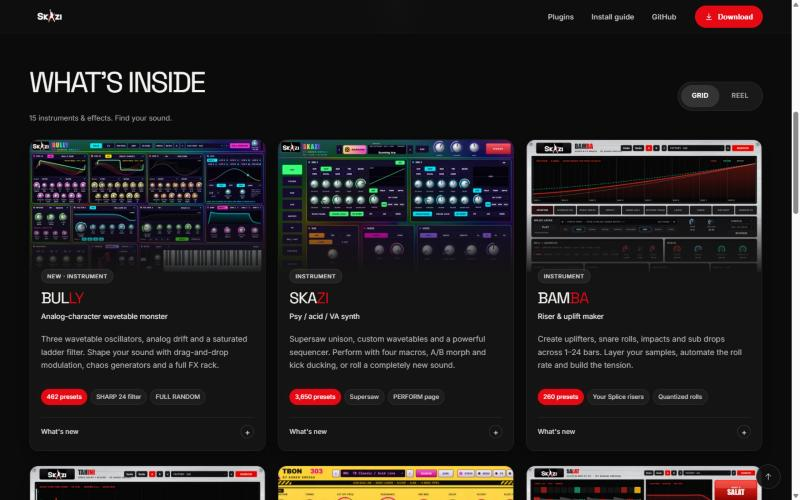
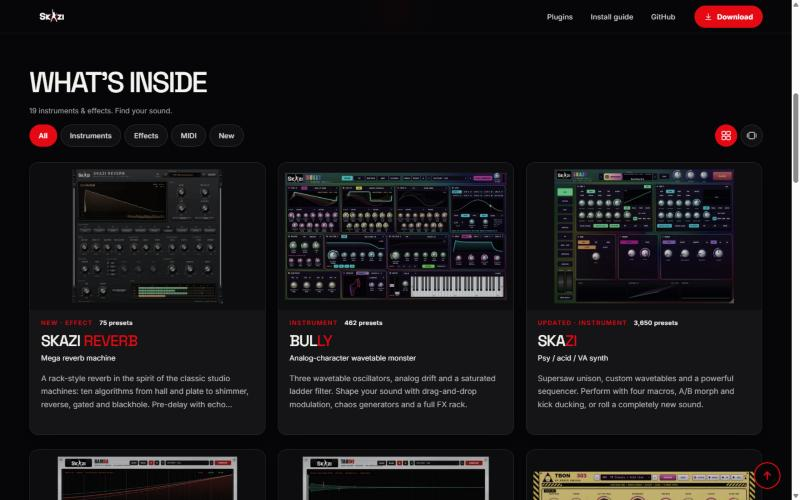
Review: fresh screenshots and a plain-language guide page for Asher

diff --git a/docs/review/for-asher.html b/docs/review/for-asher.html
@@ -1,0 +1,81 @@
+<!doctype html>
+<html lang="he" dir="rtl">
+<head>
+<meta charset="utf-8">
+<meta name="viewport" content="width=device-width, initial-scale=1">
+<title>האתר החדש של SKAZI · מה לעשות עם ה-PR</title>
+<meta name="robots" content="noindex">
+<style>
+  :root{color-scheme:dark;--bg:#060608;--surface:#151517;--line:rgba(255,255,255,.12);--text:#f4f4f0;--dim:#a4a4a4;--red:#e50914}
+  *{box-sizing:border-box}
+  body{margin:0;background:var(--bg);color:var(--text);font:16px/1.75 -apple-system,"Segoe UI",Roboto,Arial,sans-serif}
+  main{width:min(820px,100% - 40px);margin:0 auto;padding:48px 0 80px}
+  h1{font-size:32px;line-height:1.2;margin:0 0 8px}
+  h2{font-size:21px;margin:44px 0 12px;padding-top:24px;border-top:1px solid var(--line)}
+  p{margin:0 0 14px}
+  .lead{color:var(--dim);font-size:17px}
+  .cta{display:inline-flex;align-items:center;gap:10px;margin:18px 0 6px;padding:14px 24px;border-radius:999px;background:var(--red);color:#fff;font-weight:700;text-decoration:none;font-size:17px}
+  .cta:hover{background:#c90812}
+  .note{color:var(--dim);font-size:14px}
+  figure{margin:18px 0 26px}
+  figure img{display:block;width:100%;height:auto;border:1px solid var(--line);border-radius:14px;background:#000}
+  figcaption{margin-top:8px;color:var(--dim);font-size:14px}
+  .two{display:grid;grid-template-columns:1fr 1fr;gap:18px}
+  @media(max-width:640px){.two{grid-template-columns:1fr}}
+  ol{padding-right:22px}
+  ol li{margin-bottom:12px}
+  li b{color:#fff}
+  .box{margin:14px 0;padding:16px 18px;border:1px solid var(--line);border-radius:14px;background:var(--surface)}
+  a{color:#fff}
+  .muted{color:var(--dim)}
+  ul{padding-right:22px}
+  ul li{margin-bottom:6px}
+</style>
+</head>
+<body>
+<main>
+  <h1>אשר, זה האתר החדש של SKAZI</h1>
+  <p class="lead">בניתי לך מחדש את עמוד ההורדה. הכל ב-PR אחד, אתה רק צריך להסתכל ולהחליט.</p>
+
+  <a class="cta" href="https://sergey-bar.github.io/skazi-bundle/">לפתוח את האתר החדש ולהתרשם ›</a>
+  <p class="note">זו גרסת תצוגה מקדימה, זהה לחלוטין למה שייכנס לאתר שלך. כדאי לפתוח גם מהטלפון.</p>
+
+  <h2>מה השתנה</h2>
+  <ul>
+    <li><b>כפתור הורדה אחד.</b> לוחצים, בוחרים Windows או Mac, וההורדה מתחילה. אחרי לחיצה על Windows קופצת הודעה שמסבירה מה לעשות עם האזהרה של Windows.</li>
+    <li><b>הגרסה, התאריך וגודל הקבצים</b> נמשכים אוטומטית מ-GitHub. לא צריך לעדכן אותם ביד.</li>
+    <li><b>19 הפלאגינים</b> בכרטיסים אחידים, עם סינון (Instruments / Effects / MIDI / New). לחיצה על כרטיס פותחת חלון עם צילום מסך גדול, מה חדש, והכל.</li>
+    <li><b>מספר ההורדות האמיתי</b> מופיע למעלה (3,070 נכון להיום) ומתעדכן לבד.</li>
+    <li><b>התמונה שלך</b> ממוזגת לרקע השחור, בלי מסגרת.</li>
+    <li><b>פתיחה קצרה</b> עם הלוגו פעם אחת בביקור, ואז ישר לדף.</li>
+  </ul>
+
+  <div class="two">
+    <figure><img src="desktop-hero.png" alt="המסך הראשי במחשב"><figcaption>המסך הראשי במחשב</figcaption></figure>
+    <figure><img src="desktop-gallery.png" alt="רשימת הפלאגינים"><figcaption>רשימת הפלאגינים עם הסינון</figcaption></figure>
+    <figure><img src="plugin-dialog.png" alt="חלון הפלאגין"><figcaption>לחיצה על פלאגין</figcaption></figure>
+    <figure><img src="download-chooser.png" alt="בחירת מערכת הפעלה"><figcaption>לחיצה על Free Download</figcaption></figure>
+  </div>
+  <figure style="max-width:320px"><img src="mobile-hero.png" alt="המסך הראשי בטלפון"><figcaption>בטלפון</figcaption></figure>
+
+  <h2>אהבת? ככה מכניסים את זה לאתר שלך (3 לחיצות)</h2>
+  <ol>
+    <li>פותחים את ה-PR: <a href="https://github.com/slazoasher/skazi-bundle/pull/8">github.com/slazoasher/skazi-bundle/pull/8</a> (צריך להיות מחובר ל-GitHub עם החשבון שלך, slazoasher).</li>
+    <li>גוללים למטה עד הכפתור הירוק <b>Merge pull request</b> ולוחצים עליו.</li>
+    <li>לוחצים על הכפתור הירוק השני, <b>Confirm merge</b>.</li>
+  </ol>
+  <div class="box">
+    <p>זהו. תוך כמה דקות האתר <a href="https://slazoasher.github.io/skazi-bundle/">slazoasher.github.io/skazi-bundle</a> יתעדכן לבד. אם אתה עדיין רואה את הישן, רענן עם Ctrl+F5 (או Cmd+Shift+R במק).</p>
+    <p class="muted">שום דבר בפלאגינים עצמם, במתקינים או בהורדות לא משתנה. רק עמוד האתר.</p>
+  </div>
+
+  <h2>רוצה לשנות משהו קודם?</h2>
+  <p>תכתוב לי מה, או תשאיר הערה ב-PR (יש שם תיבת תגובה בתחתית העמוד). אני אעדכן, וה-PR יתעדכן לבד. לא צריך לעשות כלום בינתיים.</p>
+
+  <h2>לא אהבת?</h2>
+  <p>לא קורה כלום. האתר שלך נשאר כמו שהוא. אפשר פשוט להתעלם מה-PR או ללחוץ על <b>Close pull request</b> בתחתית העמוד שלו.</p>
+
+  <p class="muted" style="margin-top:48px">באהבה, סרגיי</p>
+</main>
+</body>
+</html>
